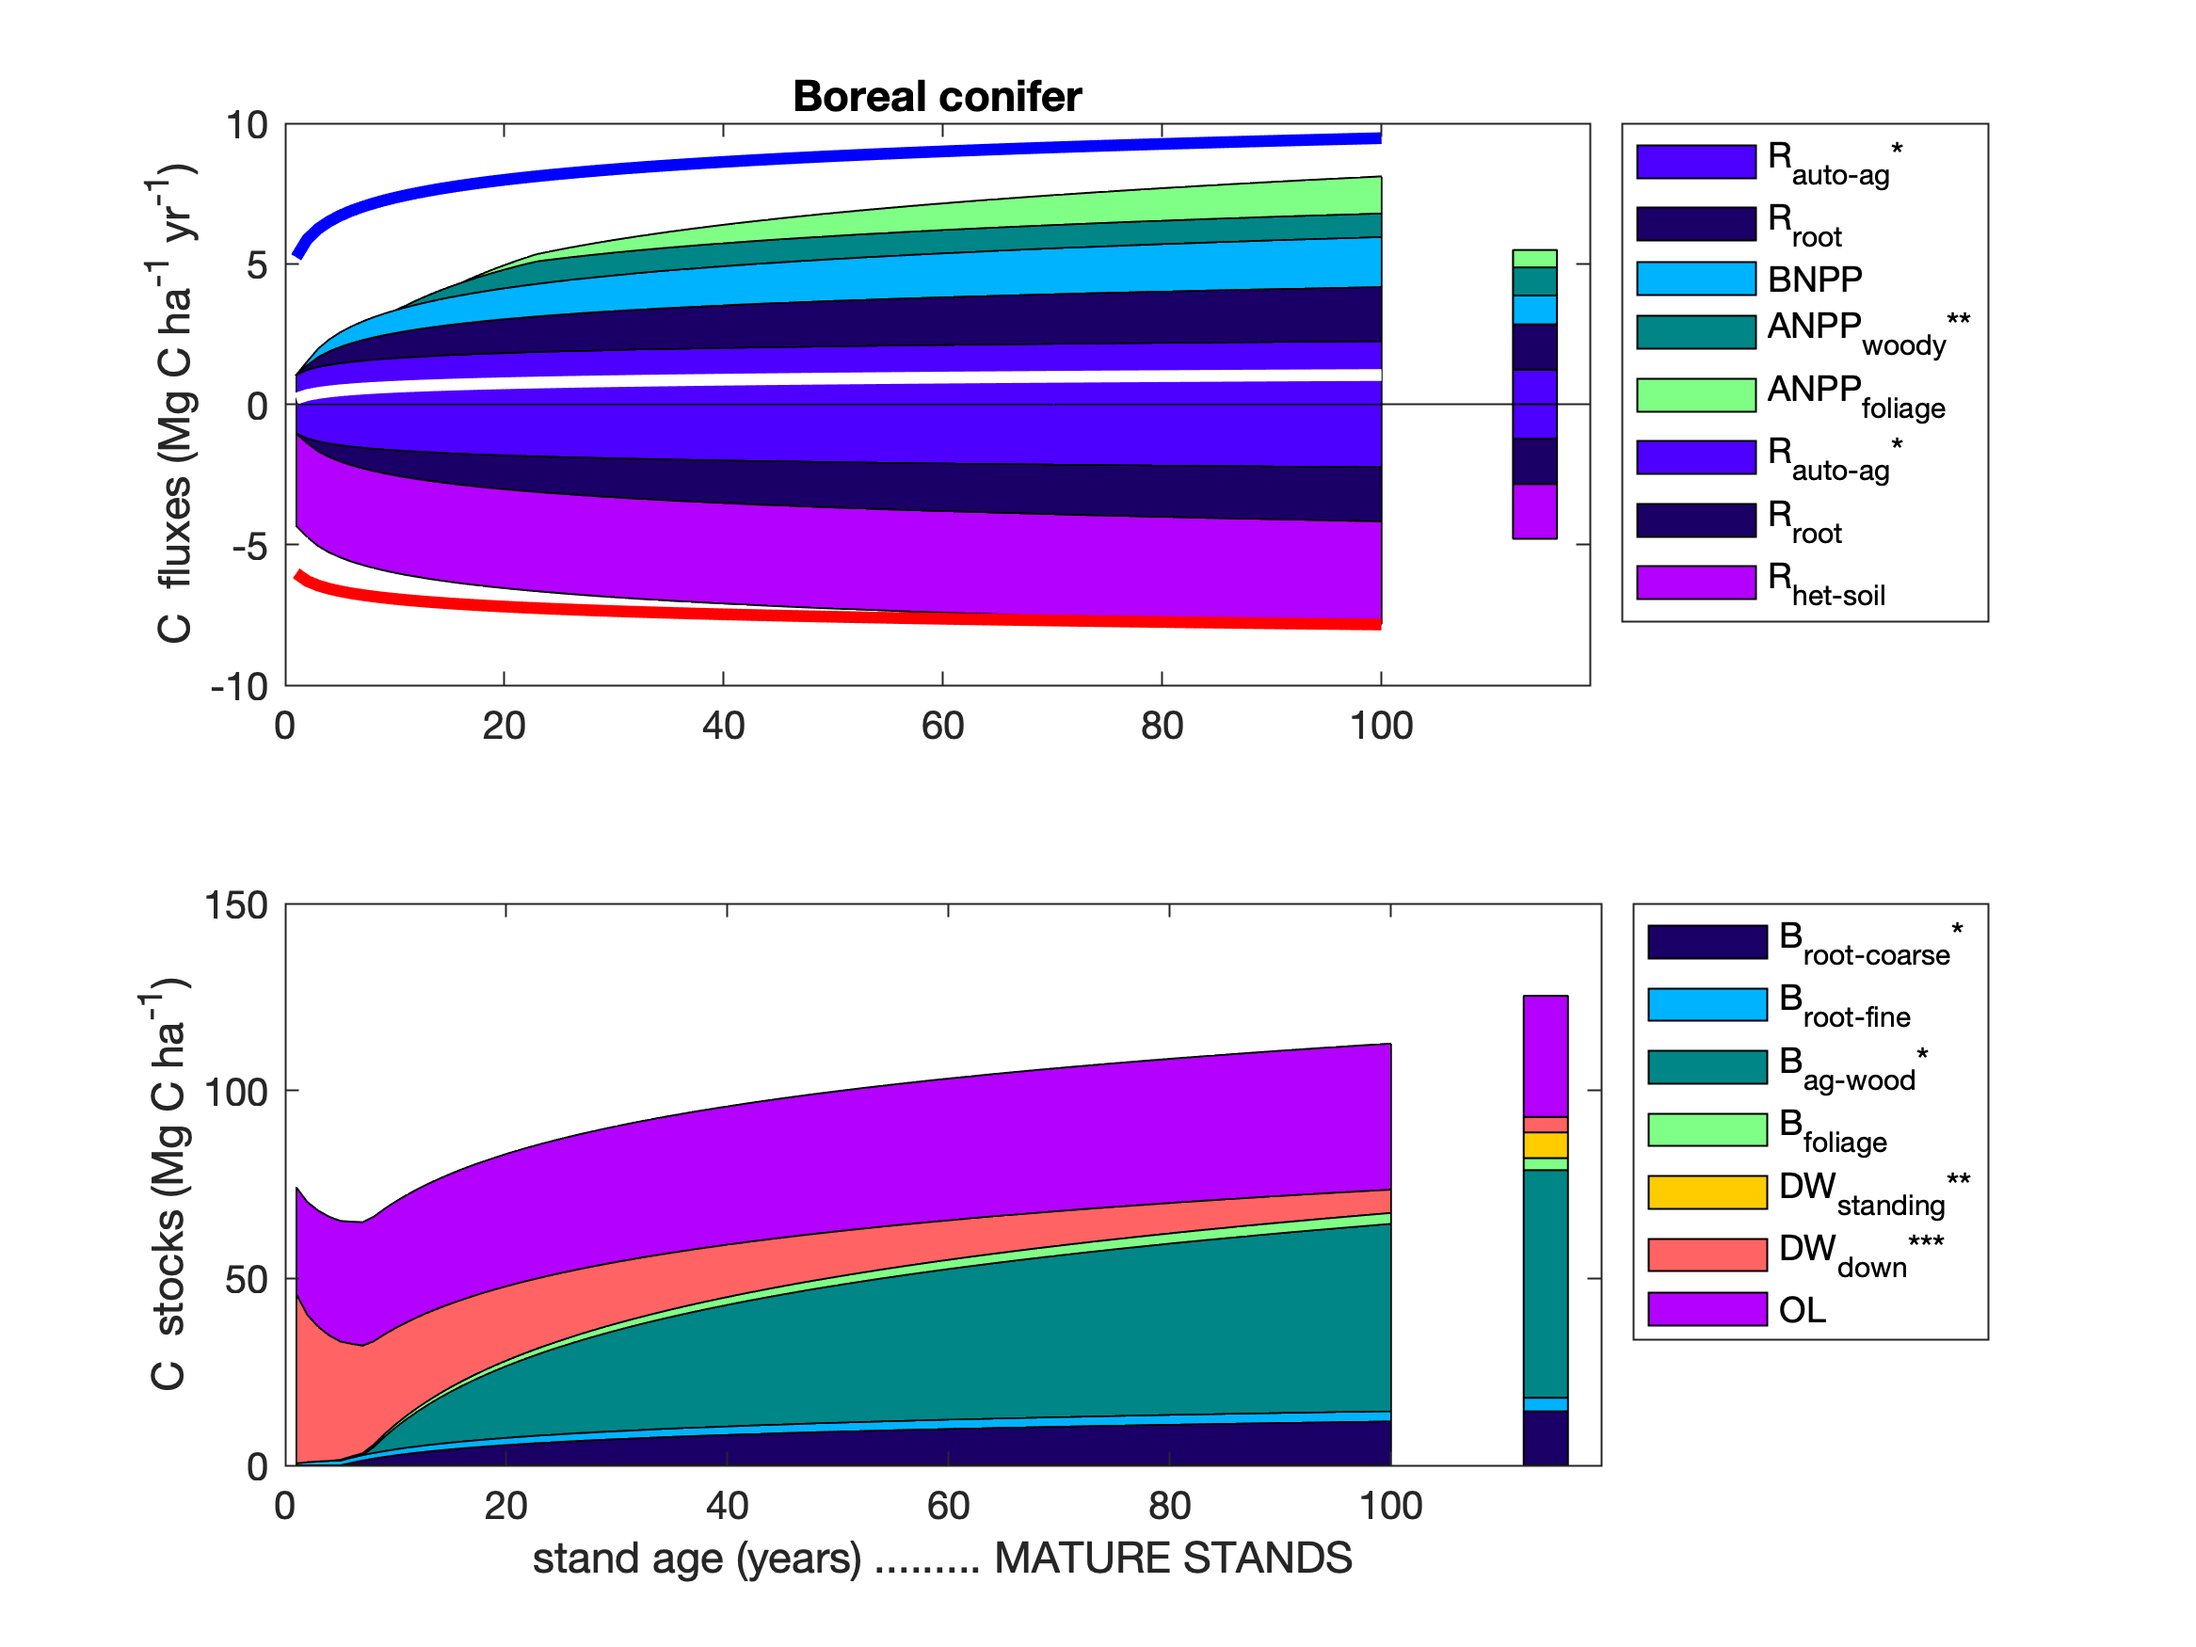
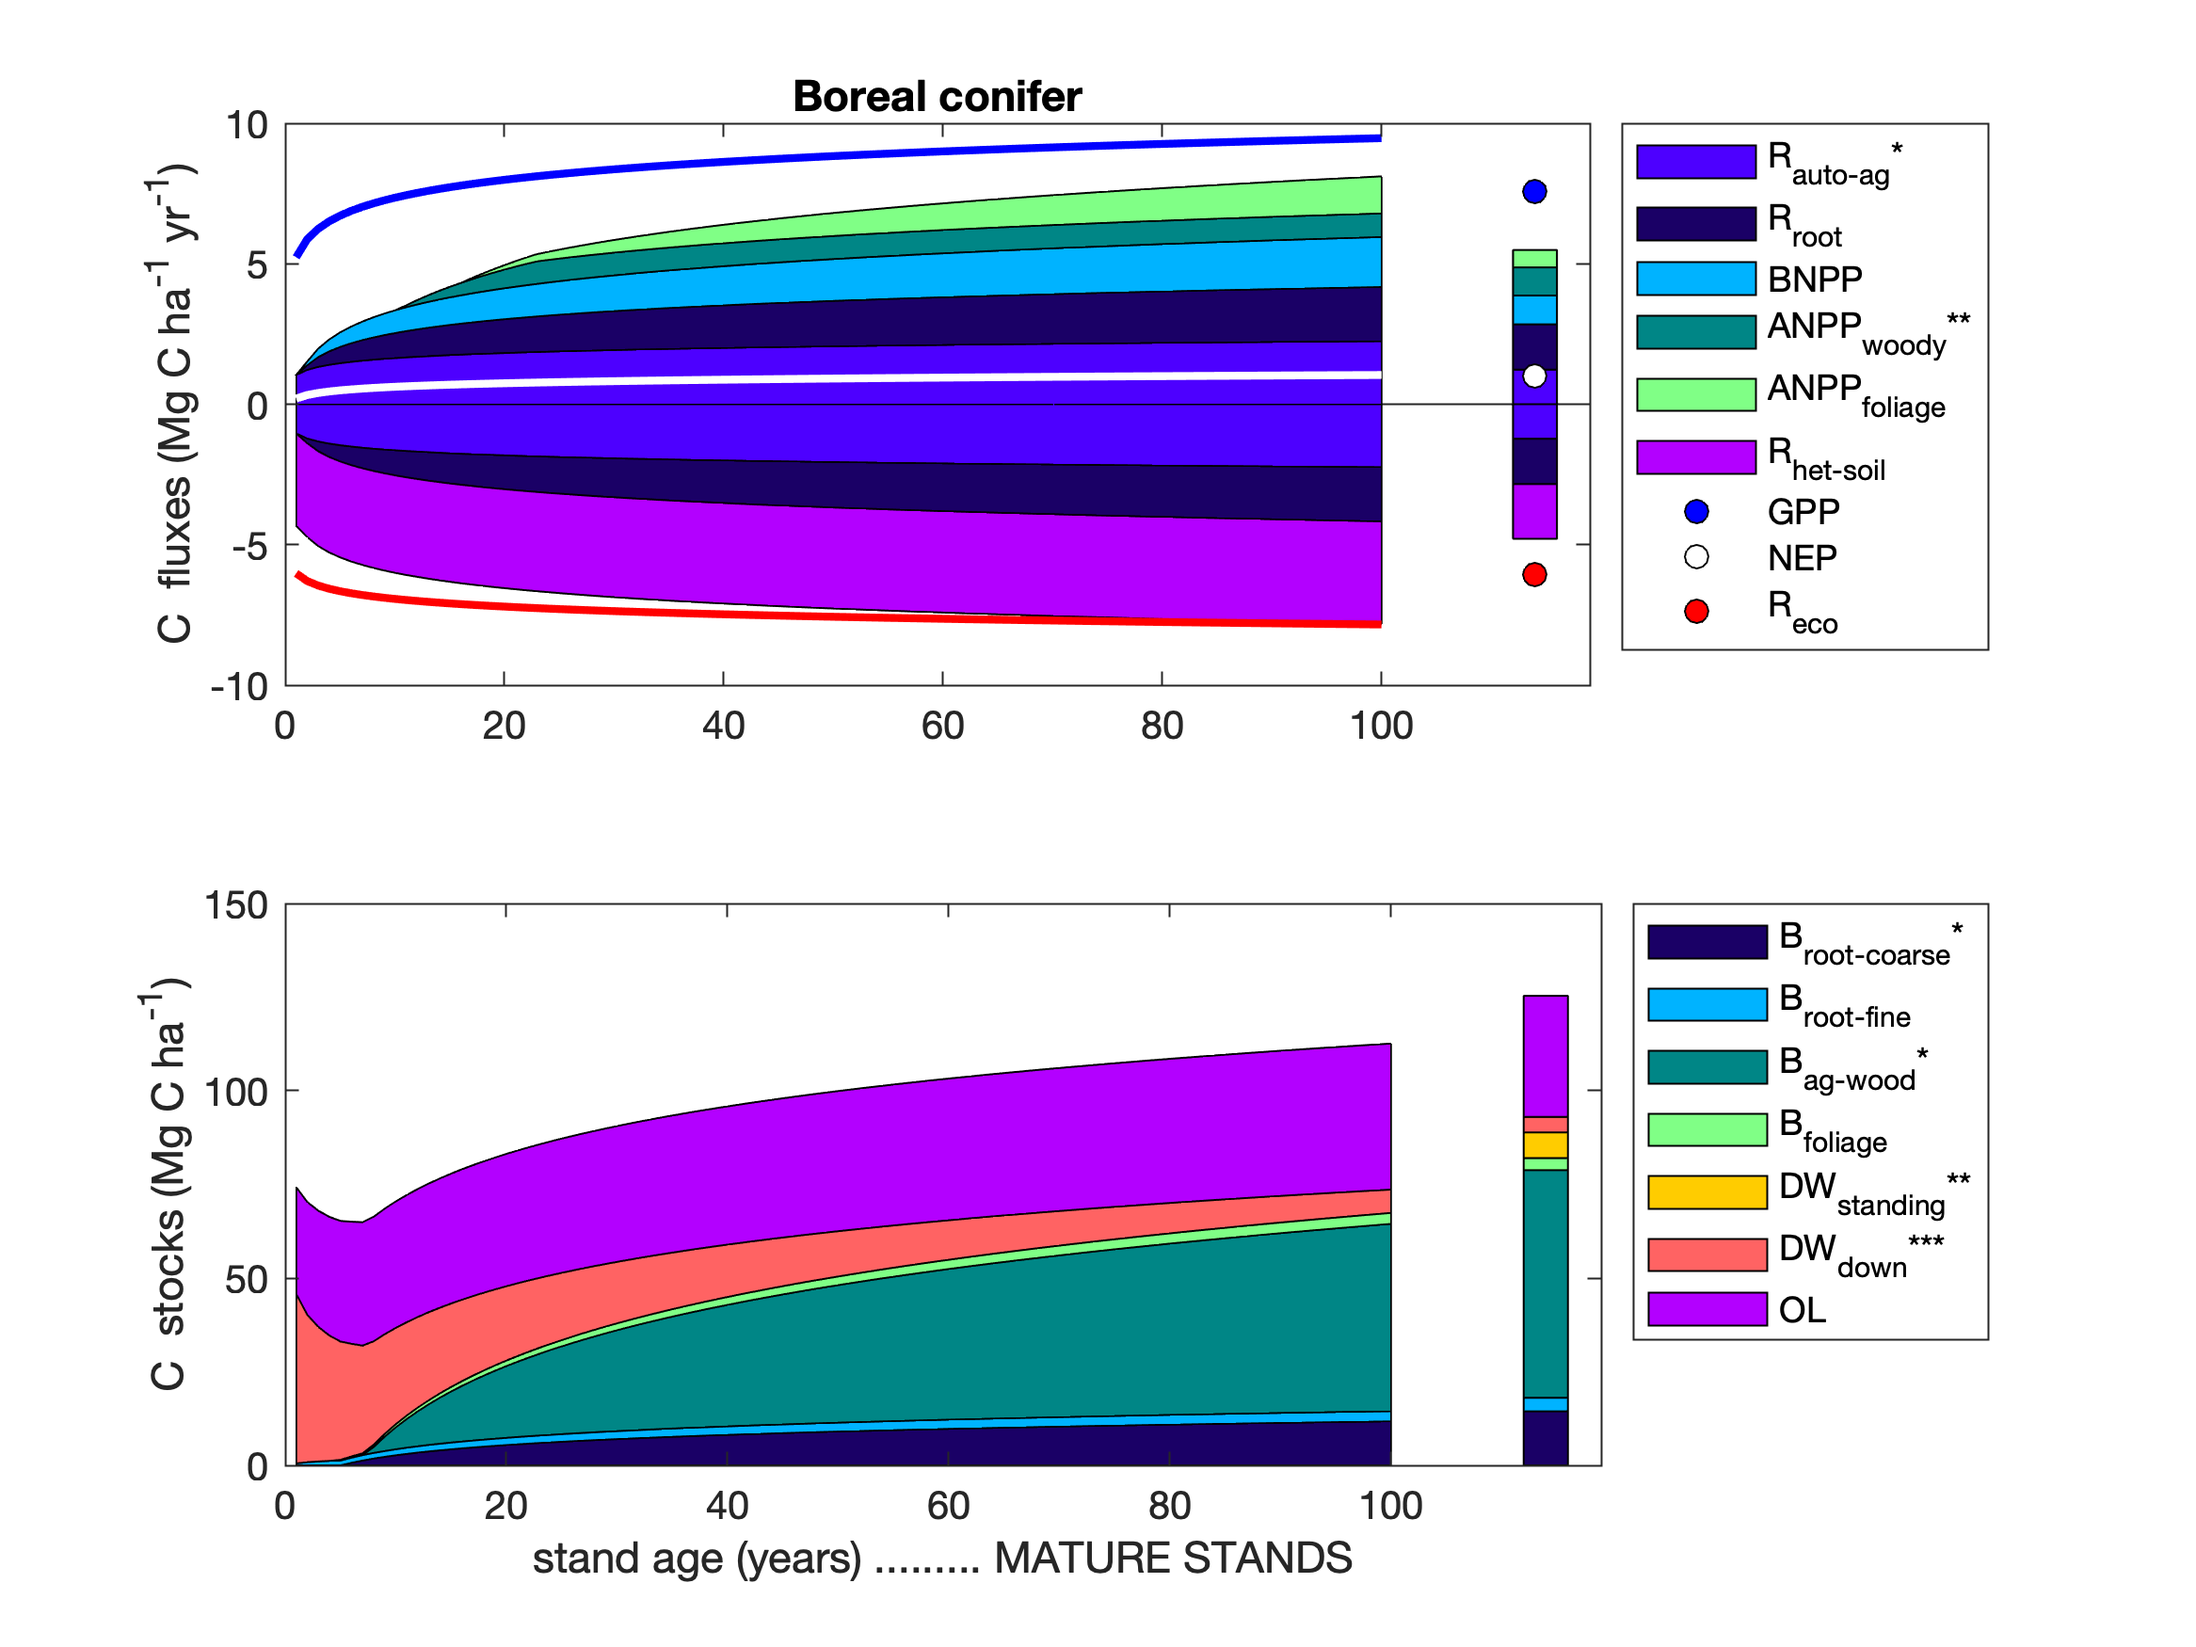
added GPP, NEP, Reco to mature forests + legend
#64

diff --git a/manuscript/tables_figures/stacked_age_trends/stacked_area_results.m b/manuscript/tables_figures/stacked_age_trends/stacked_area_results.m
@@ -319,16 +319,22 @@ subplot (2,1,1) %FLUXES
 h1a=area (age, in_fluxes'); hold on;
 h2a=area(112:116, mature_in_fluxes.*ones(5,size(mature_in_fluxes,1)),'HandleVisibility','off'); hold on;
 
-h1b=area (age, -1*out_fluxes'); %, 'LineStyle','-'); 
+h2bl=area(age, -1*out_fluxes(3,:)'); hold on; %not shown, just for legend
+h1b=area (age, -1*out_fluxes','HandleVisibility','off'); 
 h2b=area(112:116, mature_out_fluxes.*ones(5,size(mature_out_fluxes,1)),'HandleVisibility','off'); hold on;
 
 if b~= 1 
-    plot(age, GPP, '-b', 'LineWidth', 3); hold on; % eddy flux: insufficient data for tropics
-    plot(age, -R_eco, '-r', 'LineWidth', 3); % eddy flux: insufficient data for tropics
+    plot(age, GPP, '-b', 'LineWidth', 2,'HandleVisibility','off'); hold on; % eddy flux: insufficient data for tropics
+    plot(age, -R_eco, '-r', 'LineWidth', 2,'HandleVisibility','off'); % eddy flux: insufficient data for tropics
     %plot(age, -R_root-R_het_soil-R_auto_ag_calc, '--r', 'LineWidth', 3); % eddy flux: insufficient data for tropics
-    plot(age, NEP, '-w', 'LineWidth', 3);hold on; % eddy flux: insufficient data for tropics
+    plot(age, NEP, '-w', 'LineWidth', 2,'HandleVisibility','off');hold on; % eddy flux: insufficient data for tropics
     %plot(age, NEP_calc, '--w', 'LineWidth', 3);hold on;
 end
+plot (114, GPP_mature, 'ok', 'MarkerFaceColor', 'b'); hold on;
+plot (114, NEP_mature, 'ok', 'MarkerFaceColor', 'w'); hold on;
+plot (114, -R_eco_mature, 'ok', 'MarkerFaceColor', 'r'); hold on;
+
+
 %plot(age, in_sum, '--k', 'LineWidth', 3); hold on;
 %plot(age, R_auto_calc+NPP, '-k', 'LineWidth', 3);hold on;
 %plot(age, -R_auto_ag_calc-R_soil, '-y', 'LineWidth', 3);hold on;
@@ -354,11 +360,12 @@ facecolor_out_fluxes= [0.3 0 1;...  %'R_{auto-ag}*'
         h1b(n).FaceColor= facecolor_out_fluxes(n,:);
         h2b(n).FaceColor= facecolor_out_fluxes(n,:);
     end
+    h2bl.FaceColor= facecolor_out_fluxes(3,:);
 xlim([0 119])
 t = title(biomes(b));
 ylabel ('C  fluxes (Mg C ha^{-1} yr^{-1})')
 
-legend (flux_names, 'Location', 'BestOutside');
+legend ([in_flux_names, {'R_{het-soil}','GPP','NEP', 'R_{eco}' }], 'Location', 'BestOutside');
 
 
 subplot (2,1,2) %STOCKS
